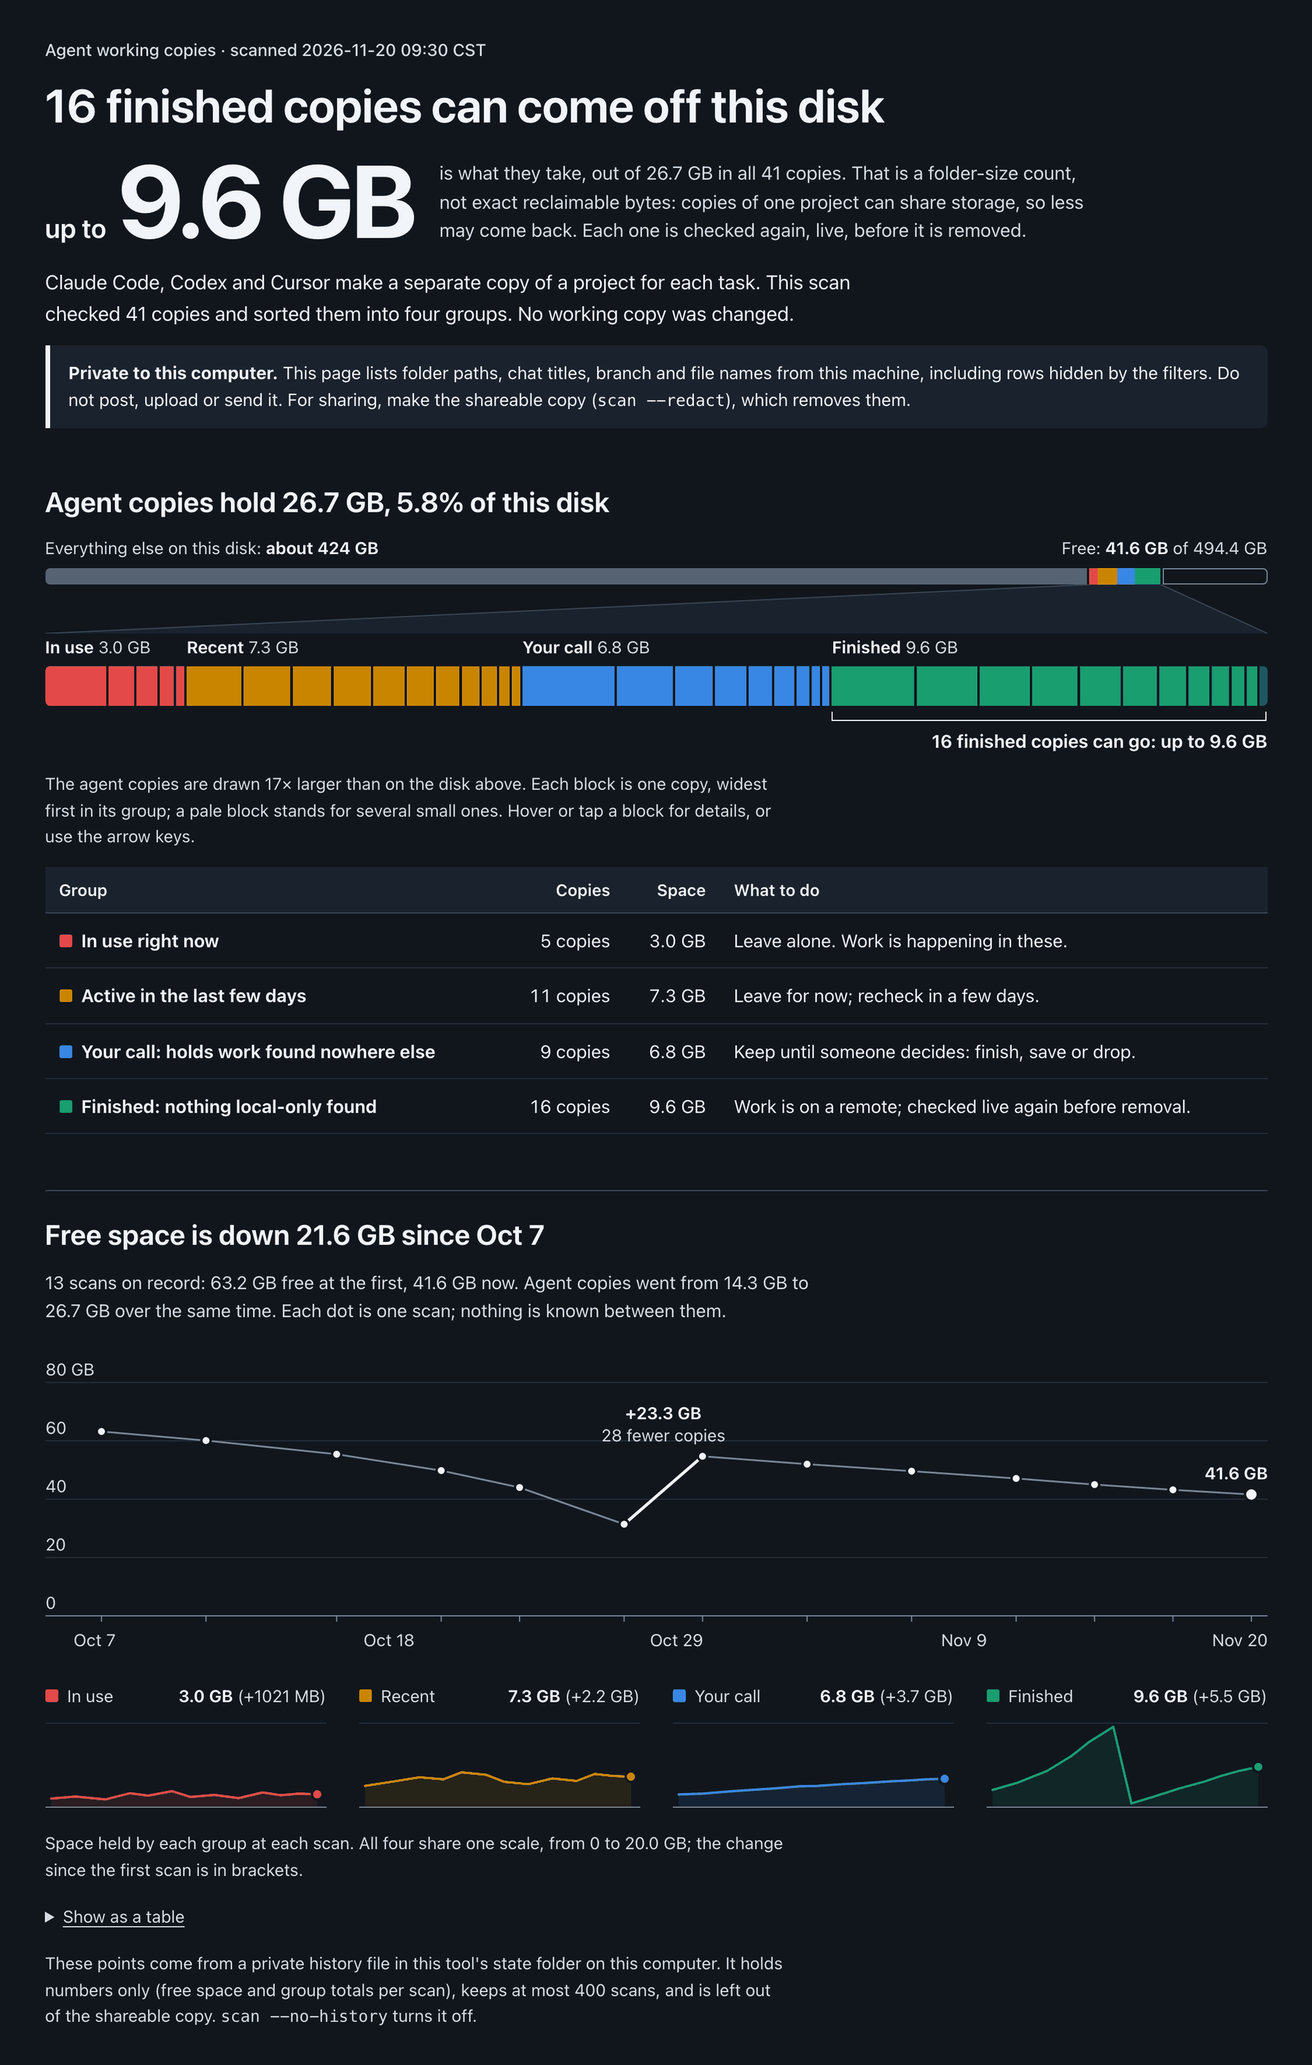
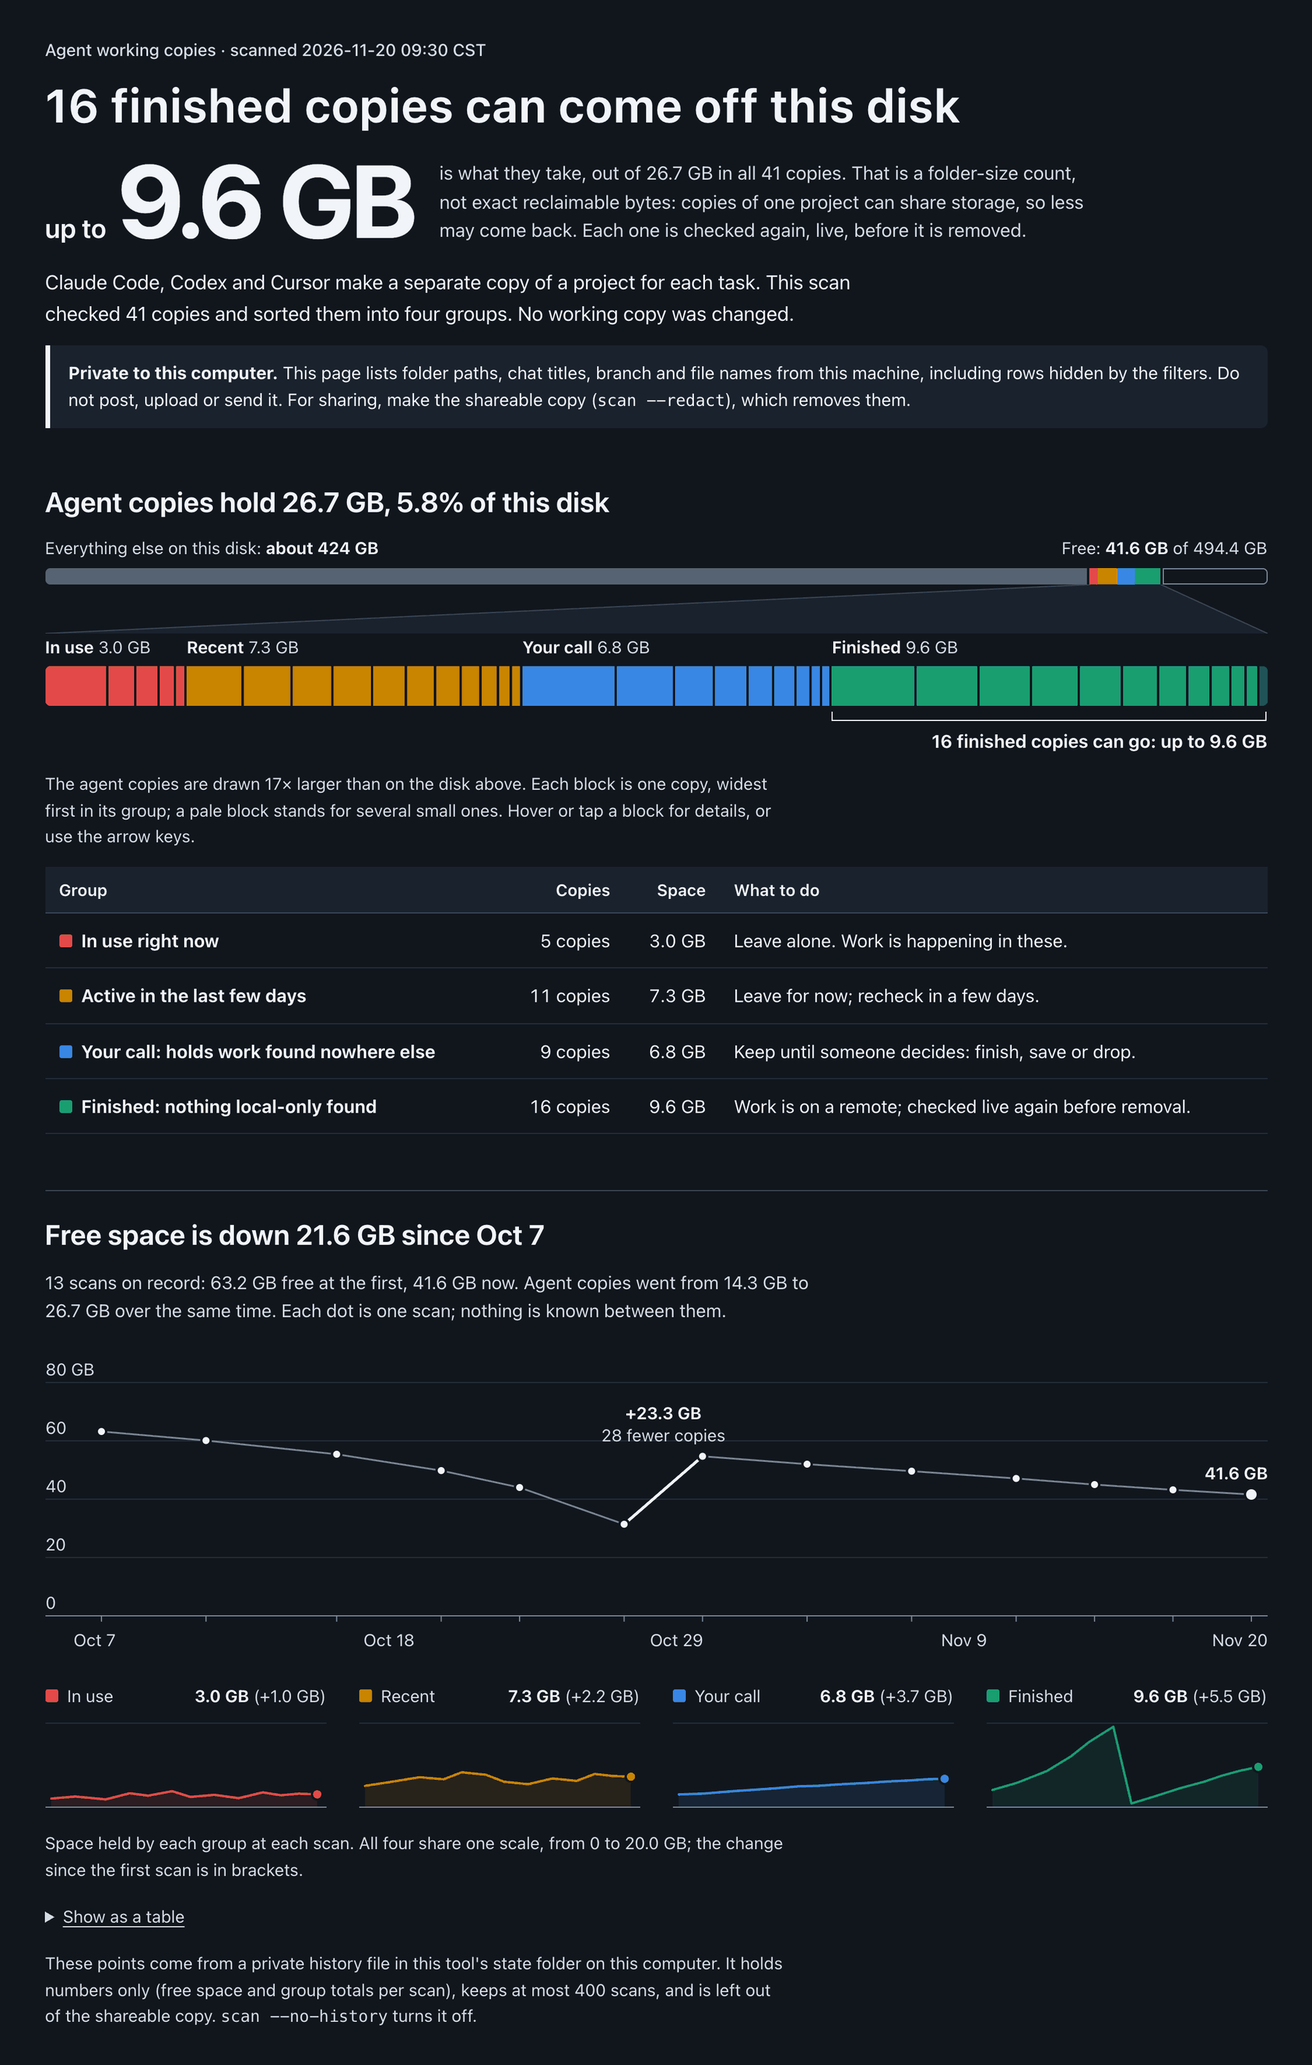
fix: every group in the zoomed strip keeps a label, and a size and its change share a unit (#4)
Two things Collin caught on the report page.

- Phone width: the zoomed-in strip dropped the label of any group too narrow
  to carry it ("In use" went missing at 375 px). Labels still sit on their
  groups when every one fits. If even one does not, all of them now move to
  a keyed list just above the strip, so no group is ever unlabelled. The
  same happens at any width when one group is tiny.
- Mixed units: a header read "3.0 GB (+1021 MB)". Sizes now switch to GB at
  1,000 MB, and a change written beside its total uses the total's unit
  when that reads cleanly (0.1 GB or more): "3.0 GB (+1.0 GB)". The same
  rule covers the "went from X to Y" sentence under the trend chart.

The page's small formatting and label-layout helpers are now a marked block
with no page access, and two new tests run that block in node. README
pictures that showed either thing were rebuilt, and the live demo page was
regenerated. Sorting, removal and safety code are untouched.

Changed region(s): [[0.0311, 0.0311, 0.7467, 0.0621], [0.1556, 0.8079, 0.2178, 0.839]]

diff --git a/docs/index.html b/docs/index.html
@@ -56,6 +56,8 @@ section{display:flex;flex-direction:column;gap:14px;min-width:0;scroll-margin-to
 .wedge line{stroke:var(--rule);stroke-width:1}
 .runlabels{position:relative;height:28px;font-size:14.5px;color:var(--ink2)}
 .runlabels span{position:absolute;bottom:5px;white-space:nowrap}
+.runlist{margin:6px 0 8px}
+.runlist b{color:var(--ink);font-weight:650}
 .mag{display:flex;gap:2px;height:34px}
 .blk{background:var(--c);min-width:2px;height:100%;cursor:pointer}
 .blk.many{opacity:.5}
@@ -256,7 +258,21 @@ function put(n,a,kids){
  return n;}
 const h=(t,a,...k)=>put(document.createElement(t),a,k),s=(t,a,...k)=>put(document.createElementNS(NS,t),a,k);
 const sum=rs=>rs.reduce((t,r)=>t+(r.mb||0),0),add=a=>a.reduce((t,v)=>t+v,0);
-const gb=mb=>mb==null?"not measured":mb>=1024?(mb/1024).toFixed(1)+" GB":Math.round(mb)+" MB";
+/* pure:start -- nothing between these two marks touches the page; the tests run these lines on their own */
+/* A size: MB below 1,000 MB, GB (one decimal) from there up, so it never reads "1021 MB". */
+const gb=mb=>mb==null?"not measured":Math.round(mb)>=1000?(mb/1024).toFixed(1)+" GB":Math.round(mb)+" MB";
+/* A size written beside another one takes the other's unit when that still reads cleanly (0.1 GB or more). */
+const gbLike=(mb,ref)=>mb!=null&&ref!=null&&Math.round(ref)>=1000&&Math.round(mb)<1000&&Math.round(mb)>=100?(mb/1024).toFixed(1)+" GB":gb(mb);
+/* A signed change beside its total: "+1.0 GB", "\u22120.6 GB", "+30 MB"; nothing when it is under 1 MB. */
+const chg=(d,total)=>Math.abs(d)<1?"":(d>0?"+":"\u2212")+gbLike(Math.abs(d),total);
+/* Labels for the magnified strip, from measured widths in px: each run's own width, and the width of its
+   full label ("Finished 9.6 GB") and its short one ("Finished"). Every run gets a label. They sit on the
+   runs when every one fits; if even one does not, all of them move to a keyed list above the strip. */
+function labelPlan(runs){
+ const pad=12;
+ if(runs.every(r=>r.short<=r.w-pad))return{mode:"direct",labels:runs.map(r=>({k:r.k,form:r.full<=r.w-pad?"full":"short"}))};
+ return{mode:"list",labels:runs.map(r=>({k:r.k,form:"full"}))};}
+/* pure:end */
 const ago=d=>d==null?"no date":d<1?"today":d<2?"1 day ago":Math.round(d)+" days ago";
 const nc=n=>n+(n===1?" copy":" copies");
 const held=rs=>rs.some(r=>r.mb!=null)?gb(sum(rs)):"not measured";
@@ -357,10 +373,15 @@ function drawScale(){
  box.replaceChildren(...kids);
  marks(nodes,i=>tips[i](),i=>acts[i]());
  const mr=mag.getBoundingClientRect();
+ const runs=[];
  GK.forEach(k=>{if(!first[k])return;const a=first[k].getBoundingClientRect(),b=last[k].getBoundingClientRect(),x0=a.left-mr.left,w=b.right-a.left;
-  const sp=h("span",{style:"left:"+x0+"px"},h("b",null,G[GI[k]].s)," "+gb(sum(byG[k])));lab.append(sp);
-  if(sp.offsetWidth>w-12){sp.replaceChildren(h("b",null,G[GI[k]].s));if(sp.offsetWidth>w-12)sp.remove();}
+  const full=h("span",{style:"left:"+x0+"px"},h("b",null,G[GI[k]].s)," "+gb(sum(byG[k]))),short=h("span",{style:"left:"+x0+"px"},h("b",null,G[GI[k]].s));
+  lab.append(full,short);runs.push({k:k,w:w,full:full.offsetWidth,short:short.offsetWidth,nodes:{full:full,short:short}});
   if(k==="done"&&brk){brk.style.left=x0+"px";brk.style.width=Math.max(6,w)+"px";}});
+ const plan=labelPlan(runs);
+ if(plan.mode==="direct")runs.forEach((r,i)=>r.nodes[plan.labels[i].form==="full"?"short":"full"].remove());
+ else{lab.className="legend runlist";lab.removeAttribute("aria-hidden");
+  lab.replaceChildren(...runs.map(r=>h("span",{class:"g-"+r.k},key(r.k),h("b",null,G[GI[r.k]].s),"\u00a0"+gb(sum(byG[r.k])))));}
  if(wsvg){const sr=strip.getBoundingClientRect(),cr=cps.getBoundingClientRect(),x0=cr.left-sr.left,x1=cr.right-sr.left,w=sr.width,H=42;
   wsvg.setAttribute("viewBox","0 0 "+w+" "+H);const[p,l1,l2]=wsvg.children;
   p.setAttribute("points",x0+",0 "+x1+",0 "+w+","+H+" 0,"+H);
@@ -407,7 +428,7 @@ function drawTime(){
  const F=P.filter(p=>p.free!=null),L=P[P.length-1];
  if(F.length>=2){const a=F[0],z=F[F.length-1],dl=z.free-a.free,since=(z.t-a.t<3*86400?dayTime:day)(a.t);
   title.textContent=Math.abs(dl)<0.05?"Free space is level since "+since:"Free space is "+(dl<0?"down ":"up ")+Math.abs(dl).toFixed(1)+" GB since "+since;
-  note.textContent=F.length+" scans on record: "+a.free+" GB free at the first, "+z.free+" GB now. Agent copies went from "+gb(add(P[0].mb))+" to "+gb(add(L.mb))+" over the same time. Each dot is one scan; nothing is known between them.";}
+  note.textContent=F.length+" scans on record: "+a.free+" GB free at the first, "+z.free+" GB now. Agent copies went from "+gbLike(add(P[0].mb),add(L.mb))+" to "+gbLike(add(L.mb),add(P[0].mb))+" over the same time. Each dot is one scan; nothing is known between them.";}
  else{title.textContent=F.length?"Free space: "+F[0].free+" GB at this scan":"Free space at each scan";
   note.textContent="This is the first scan on record with these settings. Each later scan adds a dot, so a trend shows from the second scan on.";}
  box.replaceChildren();
@@ -440,7 +461,7 @@ function drawTime(){
   const sa=sizeAxis(Math.max(1,...M.flatMap(p=>p.mb)),2);mults.replaceChildren();
   G.forEach((g,gi)=>{
    const cell=h("div",{class:"mult g-"+g.k}),pb=h("div",null),lastv=M[M.length-1].mb[gi],dl=lastv-M[0].mb[gi];
-   cell.append(h("div",{class:"mtitle"},h("span",null,key(g.k),g.s),h("span",null,h("b",null,gb(lastv)),Math.abs(dl)>=1?" ("+(dl>0?"+":"\u2212")+gb(Math.abs(dl))+")":"")),pb);mults.append(cell);
+   cell.append(h("div",{class:"mtitle"},h("span",null,key(g.k),g.s),h("span",null,h("b",null,gb(lastv)),chg(dl,lastv)&&" ("+chg(dl,lastv)+")")),pb);mults.append(cell);
    const c=linePlot(pb,M,{h:86,mt:8,mb:6,pl:5,pr:8,top:sa.top,val:p=>p.mb[gi],cls:" g-"+g.k,label:g.s+": space at each scan. Left and right arrow keys step through the scans.",
     tip:p=>[h("div",{class:"tt"},dayTime(p.t)),h("div",null,key(g.k),h("b",null,gb(p.mb[gi]))," "+g.s+" \u00b7 "+nc(p.n[gi]))]});
    const v=c.svg,base=c.ys(0),pts=M.map(p=>c.xs(p.t)+","+c.ys(p.mb[gi]));

diff --git a/scripts/agent_copy_sort.py b/scripts/agent_copy_sort.py
@@ -2146,6 +2146,8 @@ section{display:flex;flex-direction:column;gap:14px;min-width:0;scroll-margin-to
 .wedge line{stroke:var(--rule);stroke-width:1}
 .runlabels{position:relative;height:28px;font-size:14.5px;color:var(--ink2)}
 .runlabels span{position:absolute;bottom:5px;white-space:nowrap}
+.runlist{margin:6px 0 8px}
+.runlist b{color:var(--ink);font-weight:650}
 .mag{display:flex;gap:2px;height:34px}
 .blk{background:var(--c);min-width:2px;height:100%;cursor:pointer}
 .blk.many{opacity:.5}
@@ -2282,7 +2284,21 @@ function put(n,a,kids){
  return n;}
 const h=(t,a,...k)=>put(document.createElement(t),a,k),s=(t,a,...k)=>put(document.createElementNS(NS,t),a,k);
 const sum=rs=>rs.reduce((t,r)=>t+(r.mb||0),0),add=a=>a.reduce((t,v)=>t+v,0);
-const gb=mb=>mb==null?"not measured":mb>=1024?(mb/1024).toFixed(1)+" GB":Math.round(mb)+" MB";
+/* pure:start -- nothing between these two marks touches the page; the tests run these lines on their own */
+/* A size: MB below 1,000 MB, GB (one decimal) from there up, so it never reads "1021 MB". */
+const gb=mb=>mb==null?"not measured":Math.round(mb)>=1000?(mb/1024).toFixed(1)+" GB":Math.round(mb)+" MB";
+/* A size written beside another one takes the other's unit when that still reads cleanly (0.1 GB or more). */
+const gbLike=(mb,ref)=>mb!=null&&ref!=null&&Math.round(ref)>=1000&&Math.round(mb)<1000&&Math.round(mb)>=100?(mb/1024).toFixed(1)+" GB":gb(mb);
+/* A signed change beside its total: "+1.0 GB", "\u22120.6 GB", "+30 MB"; nothing when it is under 1 MB. */
+const chg=(d,total)=>Math.abs(d)<1?"":(d>0?"+":"\u2212")+gbLike(Math.abs(d),total);
+/* Labels for the magnified strip, from measured widths in px: each run's own width, and the width of its
+   full label ("Finished 9.6 GB") and its short one ("Finished"). Every run gets a label. They sit on the
+   runs when every one fits; if even one does not, all of them move to a keyed list above the strip. */
+function labelPlan(runs){
+ const pad=12;
+ if(runs.every(r=>r.short<=r.w-pad))return{mode:"direct",labels:runs.map(r=>({k:r.k,form:r.full<=r.w-pad?"full":"short"}))};
+ return{mode:"list",labels:runs.map(r=>({k:r.k,form:"full"}))};}
+/* pure:end */
 const ago=d=>d==null?"no date":d<1?"today":d<2?"1 day ago":Math.round(d)+" days ago";
 const nc=n=>n+(n===1?" copy":" copies");
 const held=rs=>rs.some(r=>r.mb!=null)?gb(sum(rs)):"not measured";
@@ -2383,10 +2399,15 @@ function drawScale(){
  box.replaceChildren(...kids);
  marks(nodes,i=>tips[i](),i=>acts[i]());
  const mr=mag.getBoundingClientRect();
+ const runs=[];
  GK.forEach(k=>{if(!first[k])return;const a=first[k].getBoundingClientRect(),b=last[k].getBoundingClientRect(),x0=a.left-mr.left,w=b.right-a.left;
-  const sp=h("span",{style:"left:"+x0+"px"},h("b",null,G[GI[k]].s)," "+gb(sum(byG[k])));lab.append(sp);
-  if(sp.offsetWidth>w-12){sp.replaceChildren(h("b",null,G[GI[k]].s));if(sp.offsetWidth>w-12)sp.remove();}
+  const full=h("span",{style:"left:"+x0+"px"},h("b",null,G[GI[k]].s)," "+gb(sum(byG[k]))),short=h("span",{style:"left:"+x0+"px"},h("b",null,G[GI[k]].s));
+  lab.append(full,short);runs.push({k:k,w:w,full:full.offsetWidth,short:short.offsetWidth,nodes:{full:full,short:short}});
   if(k==="done"&&brk){brk.style.left=x0+"px";brk.style.width=Math.max(6,w)+"px";}});
+ const plan=labelPlan(runs);
+ if(plan.mode==="direct")runs.forEach((r,i)=>r.nodes[plan.labels[i].form==="full"?"short":"full"].remove());
+ else{lab.className="legend runlist";lab.removeAttribute("aria-hidden");
+  lab.replaceChildren(...runs.map(r=>h("span",{class:"g-"+r.k},key(r.k),h("b",null,G[GI[r.k]].s),"\u00a0"+gb(sum(byG[r.k])))));}
  if(wsvg){const sr=strip.getBoundingClientRect(),cr=cps.getBoundingClientRect(),x0=cr.left-sr.left,x1=cr.right-sr.left,w=sr.width,H=42;
   wsvg.setAttribute("viewBox","0 0 "+w+" "+H);const[p,l1,l2]=wsvg.children;
   p.setAttribute("points",x0+",0 "+x1+",0 "+w+","+H+" 0,"+H);
@@ -2433,7 +2454,7 @@ function drawTime(){
  const F=P.filter(p=>p.free!=null),L=P[P.length-1];
  if(F.length>=2){const a=F[0],z=F[F.length-1],dl=z.free-a.free,since=(z.t-a.t<3*86400?dayTime:day)(a.t);
   title.textContent=Math.abs(dl)<0.05?"Free space is level since "+since:"Free space is "+(dl<0?"down ":"up ")+Math.abs(dl).toFixed(1)+" GB since "+since;
-  note.textContent=F.length+" scans on record: "+a.free+" GB free at the first, "+z.free+" GB now. Agent copies went from "+gb(add(P[0].mb))+" to "+gb(add(L.mb))+" over the same time. Each dot is one scan; nothing is known between them.";}
+  note.textContent=F.length+" scans on record: "+a.free+" GB free at the first, "+z.free+" GB now. Agent copies went from "+gbLike(add(P[0].mb),add(L.mb))+" to "+gbLike(add(L.mb),add(P[0].mb))+" over the same time. Each dot is one scan; nothing is known between them.";}
  else{title.textContent=F.length?"Free space: "+F[0].free+" GB at this scan":"Free space at each scan";
   note.textContent="This is the first scan on record with these settings. Each later scan adds a dot, so a trend shows from the second scan on.";}
  box.replaceChildren();
@@ -2466,7 +2487,7 @@ function drawTime(){
   const sa=sizeAxis(Math.max(1,...M.flatMap(p=>p.mb)),2);mults.replaceChildren();
   G.forEach((g,gi)=>{
    const cell=h("div",{class:"mult g-"+g.k}),pb=h("div",null),lastv=M[M.length-1].mb[gi],dl=lastv-M[0].mb[gi];
-   cell.append(h("div",{class:"mtitle"},h("span",null,key(g.k),g.s),h("span",null,h("b",null,gb(lastv)),Math.abs(dl)>=1?" ("+(dl>0?"+":"\u2212")+gb(Math.abs(dl))+")":"")),pb);mults.append(cell);
+   cell.append(h("div",{class:"mtitle"},h("span",null,key(g.k),g.s),h("span",null,h("b",null,gb(lastv)),chg(dl,lastv)&&" ("+chg(dl,lastv)+")")),pb);mults.append(cell);
    const c=linePlot(pb,M,{h:86,mt:8,mb:6,pl:5,pr:8,top:sa.top,val:p=>p.mb[gi],cls:" g-"+g.k,label:g.s+": space at each scan. Left and right arrow keys step through the scans.",
     tip:p=>[h("div",{class:"tt"},dayTime(p.t)),h("div",null,key(g.k),h("b",null,gb(p.mb[gi]))," "+g.s+" \u00b7 "+nc(p.n[gi]))]});
    const v=c.svg,base=c.ys(0),pts=M.map(p=>c.xs(p.t)+","+c.ys(p.mb[gi]));
@@ -2611,7 +2632,8 @@ def script_json(obj):
 
 
 def _fmt_mb(mb):
-    return f'{mb / 1024:.1f} GB' if mb >= 1024 else f'{mb:.0f} MB'
+    """MB below 1,000 MB, GB from there up (the page's script formats sizes the same way)."""
+    return f'{mb / 1024:.1f} GB' if round(mb) >= 1000 else f'{mb:.0f} MB'
 
 
 def _copies(n):

diff --git a/tests/test_agent_copy_sort.py b/tests/test_agent_copy_sort.py
@@ -1348,6 +1348,59 @@ class DemoPageTest(unittest.TestCase):
         assert_no_network(self, hosted.replace(render_demo.SITE_STRIP, ''))
         self.assertTrue((site.parent / '.nojekyll').exists(), 'GitHub Pages must serve the file as it is')
 
+    def pure_helpers(self, expression):
+        """Run the page script's own pure helpers (sizes, changes, strip labels) in node; return the result."""
+        js = self.page.split('<script>', 1)[1].rsplit('</script>', 1)[0]
+        pure = js.split('/* pure:start', 1)[1].split('*/', 1)[1].split('/* pure:end */', 1)[0]
+        self.assertNotIn('document', pure)
+        with tempfile.TemporaryDirectory() as d:
+            f = Path(d) / 'pure.js'
+            f.write_text(pure + '\nconsole.log(JSON.stringify(' + expression + '));\n')
+            res = subprocess.run(['node', str(f)], capture_output=True, text=True)  # ubs:ignore -- argv list
+        self.assertEqual(res.returncode, 0, res.stderr)
+        return json.loads(res.stdout)
+
+    @unittest.skipUnless(shutil.which('node'), 'node is not installed')
+    def test_a_size_and_its_change_share_a_unit(self):
+        got = self.pure_helpers('[gb(1021), gb(999), gb(1000), gb(3121), chg(1021, 3121), chg(-586, 4400), '
+                                'chg(2253, 7435), chg(30, 4400), chg(200, 800), chg(1500, 900), chg(0.4, 5000), '
+                                'gbLike(800, 27000), gbLike(40, 27000)]')
+        self.assertEqual(got, ['1.0 GB', '999 MB', '1.0 GB', '3.0 GB', '+1.0 GB', '\u22120.6 GB', '+2.2 GB', '+30 MB',
+                               '+200 MB', '+1.5 GB', '', '0.8 GB', '40 MB'])
+        # The header that used to read "3.0 GB (+1021 MB)": every change of 1,000 MB or more is in GB,
+        # and beside a total in GB a change of 100 MB or more is in GB too.
+        sweep = self.pure_helpers('[900, 990, 1000, 1021, 1023, 1024, 1500, 9999].map(d => [chg(d, 3000), chg(-d, 500), gb(d)])')
+        for up, down, size in sweep:
+            for text in (up, down, size):
+                self.assertNotRegex(text, r'\d{4,} MB', text)
+            self.assertTrue(up.endswith(' GB'), up)
+        self.assertEqual([acs._fmt_mb(v) for v in (999, 1000, 1021, 3121)], ['999 MB', '1.0 GB', '1.0 GB', '3.0 GB'])
+
+    @unittest.skipUnless(shutil.which('node'), 'node is not installed')
+    def test_every_group_in_the_strip_keeps_a_label_at_any_width(self):
+        # Label widths as a 14.5px system font draws them: [group, full label, short label].
+        labels = [['inuse', 95, 46], ['recent', 100, 52], ['decide', 112, 64], ['done', 110, 62]]
+        demo = [3121, 7435, 6921, 9827]          # the demo's four groups, in MB
+        tiny = [30, 7435, 6921, 9827]            # one group far too small to carry any label
+        cases = [(name, width, sizes) for name, sizes in (('demo', demo), ('tiny', tiny))
+                 for width in (343, 368, 600, 1048)]   # 343 px is the strip on a 375 px phone
+        runs = [[{'k': k, 'w': mb / sum(sizes) * width, 'full': full, 'short': short}
+                 for (k, full, short), mb in zip(labels, sizes)] for _, width, sizes in cases]
+        plans = self.pure_helpers(json.dumps(runs) + '.map(labelPlan)')
+        modes = {}
+        for (name, width, _), plan in zip(cases, plans):
+            self.assertEqual([x['k'] for x in plan['labels']], [k for k, _, _ in labels], (name, width, 'a group lost its label'))
+            modes[name, width] = plan['mode']
+            if plan['mode'] == 'list':
+                self.assertTrue(all(x['form'] == 'full' for x in plan['labels']))
+        self.assertEqual(modes['demo', 343], 'list', 'on a phone the labels move to the keyed list')
+        self.assertEqual(modes['demo', 1048], 'direct')
+        self.assertEqual(modes['tiny', 1048], 'list', 'one group too small for a label moves them all to the list')
+        # The page carries the list styling and never removes a strip label outright.
+        self.assertIn('.runlist{', self.page)
+        self.assertIn('labelPlan(runs)', self.page)
+        self.assertNotIn('sp.remove()', self.page)
+
     def test_demo_script_writes_both_pages(self):
         with tempfile.TemporaryDirectory() as d:
             out = Path(d) / 'demo.html'
